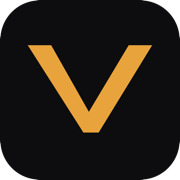
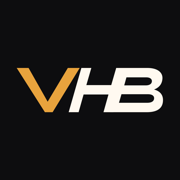
brand: nieuw app-icoon (VHB-inline op carbon)
Nieuw app-icoon-pakket toegepast (brand/NEWvhb-app-icon-inline.svg): het
volledige VHB-monogram horizontaal op een carbon-tegel. vhb-icoon.svg +
de 192/512-PNG's en apple-touch-icon (uit de 1024-master via qlmanage/sips).
De maskable-variant krijgt extra marge zodat het horizontale woordmerk niet
door de Android-cirkelcrop wordt afgesneden. Favicon blijft (compacte mark,
leesbaar op tab-formaat). sw-cache v11→v12 (asset-wissel onder zelfde namen).

diff --git a/public/sw.js b/public/sw.js
@@ -21,7 +21,9 @@
 // cache-first de nieuwe logo's serveert i.p.v. de oude gecachte.
 // v11: ritblad-PDF krijgt query-loze cache-key (signed URLs) — bump ruimt de
 // oude per-URL-entries op.
-const CACHE_NAME = 'vhb-portaal-v11';
+// v12: nieuw app-icoon (VHB-inline op carbon) — app-icoon-PNG's/SVG gewijzigd
+// onder dezelfde bestandsnamen, bump zodat cache-first het nieuwe icoon serveert.
+const CACHE_NAME = 'vhb-portaal-v12';
 // Trage netwerken: na zoveel ms navigatie-fetch de gecachte shell tonen.
 const NAV_TIMEOUT_MS = 3000;
 const RITBLAADJE_API = '/api/ritblaadje';
